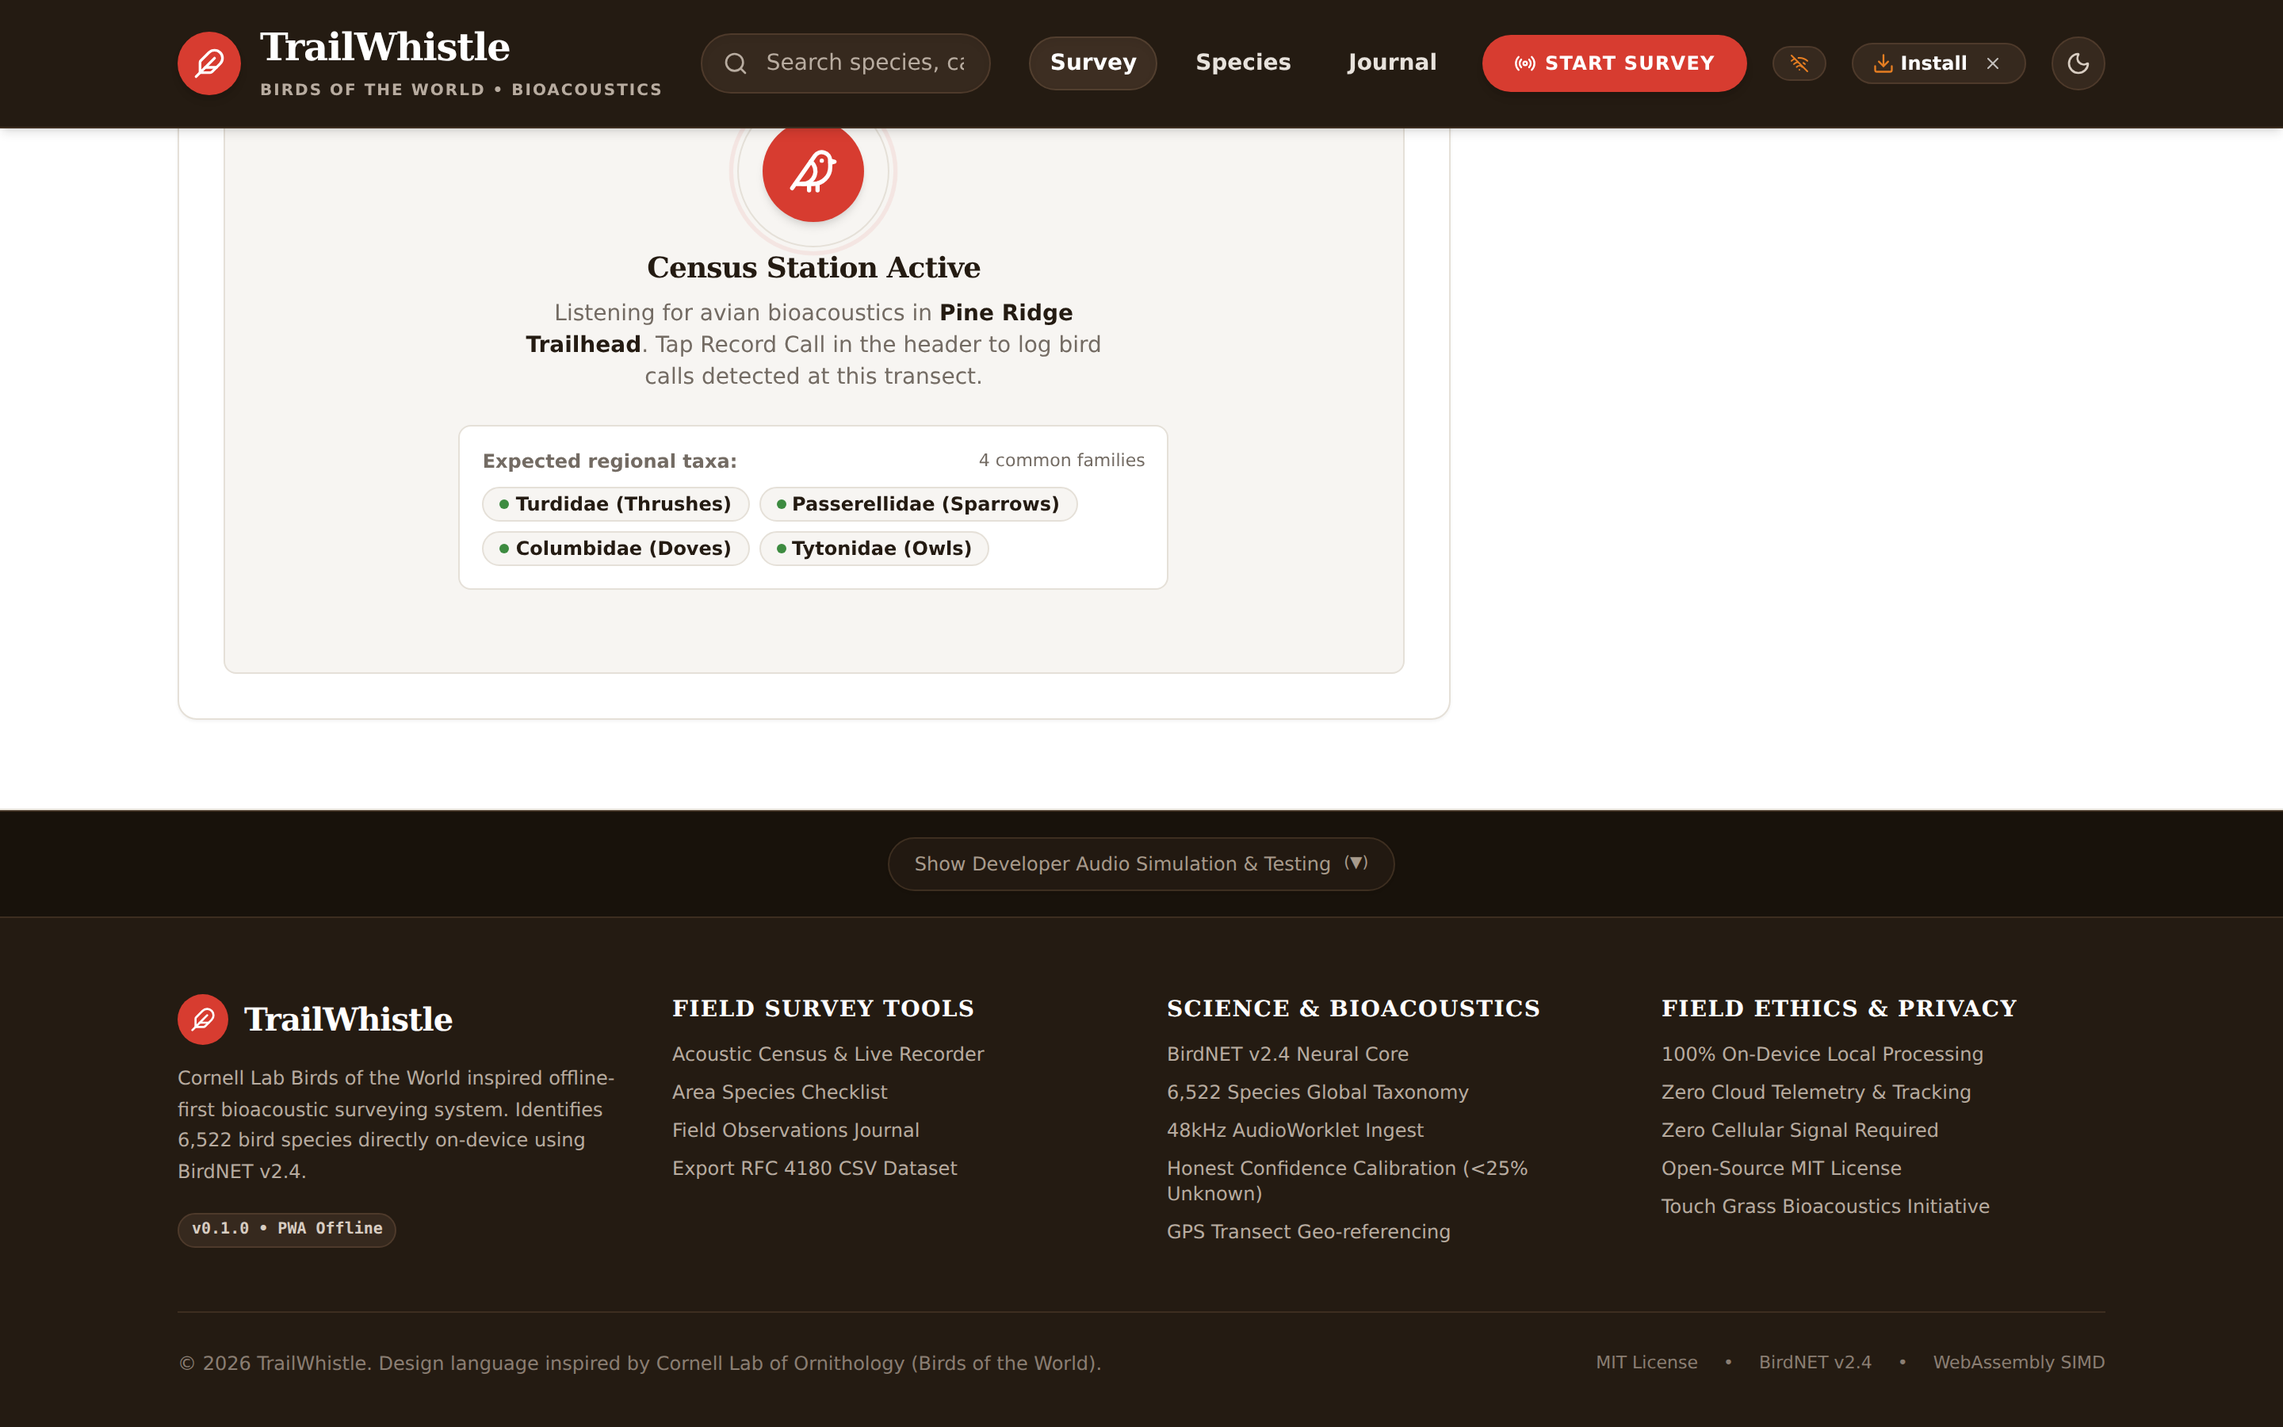
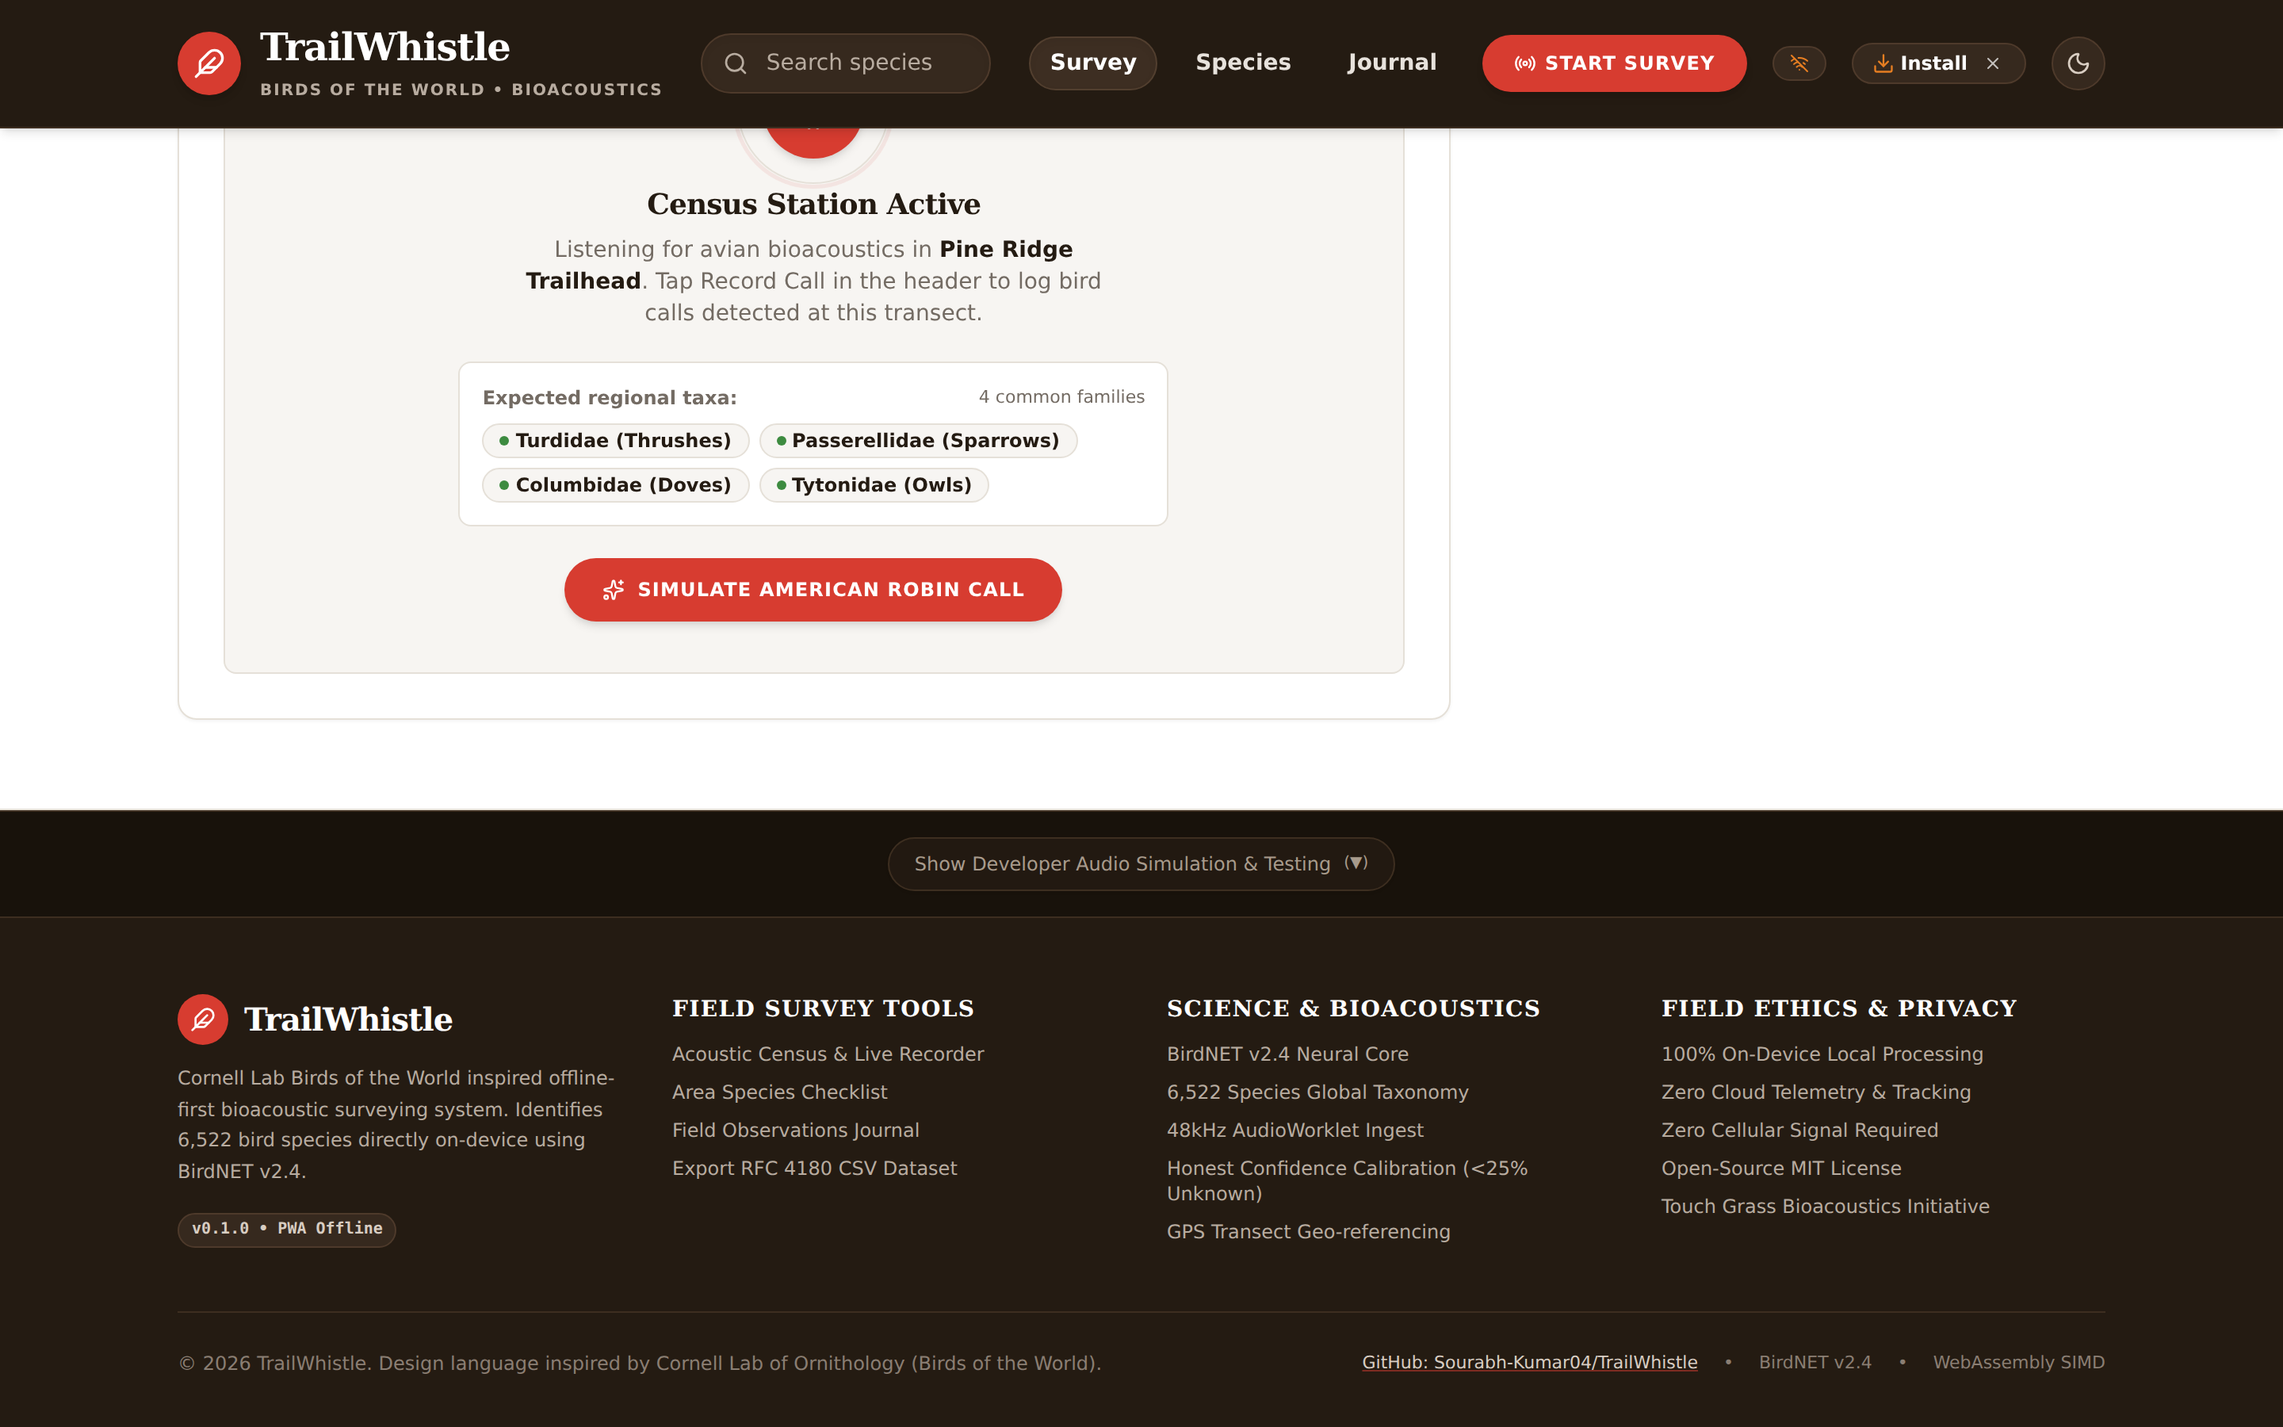
fix: complete remaining judge fixes - wire header search, explicit survey time label, species catalog reachability, and automated verification

Changed region(s): [[0.2188, 0.0933, 0.5, 0.4356], [0.5938, 0.9333, 0.75, 0.9644]]

diff --git a/src/components/SpeciesCatalog.tsx b/src/components/SpeciesCatalog.tsx
@@ -75,16 +75,28 @@ interface SpeciesCatalogProps {
   detectedChecklist: SurveyChecklistItem[];
   locationName: string;
   isSunlightMode: boolean;
+  searchQuery?: string;
+  onSearchChange?: (q: string) => void;
 }
 
 export const SpeciesCatalog: React.FC<SpeciesCatalogProps> = ({
   detectedChecklist,
   locationName,
-  isSunlightMode,
+  isSunlightMode: _isSunlightMode,
+  searchQuery: externalSearchQuery,
+  onSearchChange,
 }) => {
-  const [searchQuery, setSearchQuery] = useState('');
+  const [internalQuery, setInternalQuery] = useState('');
+  const currentSearchQuery = externalSearchQuery !== undefined ? externalSearchQuery : internalQuery;
   const [playingId, setPlayingId] = useState<string | null>(null);
   const audioPlayerRef = useRef<HTMLAudioElement | null>(null);
+
+  const handleSearchChange = (val: string) => {
+    setInternalQuery(val);
+    if (onSearchChange) {
+      onSearchChange(val);
+    }
+  };
 
   const handleTogglePlay = (id: string, audioUrl: string) => {
     if (!audioPlayerRef.current) return;
@@ -100,11 +112,24 @@ export const SpeciesCatalog: React.FC<SpeciesCatalogProps> = ({
     }
   };
 
+  const q = currentSearchQuery.trim().toLowerCase();
   const filteredDemoSpecies = DEMO_SPECIES_LIST.filter(
     (s) =>
-      s.commonName.toLowerCase().includes(searchQuery.toLowerCase()) ||
-      s.scientificName.toLowerCase().includes(searchQuery.toLowerCase()) ||
-      s.family.toLowerCase().includes(searchQuery.toLowerCase())
+      !q ||
+      s.commonName.toLowerCase().includes(q) ||
+      s.scientificName.toLowerCase().includes(q) ||
+      s.family.toLowerCase().includes(q) ||
+      s.habitat.toLowerCase().includes(q) ||
+      s.description.toLowerCase().includes(q)
+  );
+
+  const filteredDetected = detectedChecklist.filter(
+    (item) =>
+      !q ||
+      item.commonName.toLowerCase().includes(q) ||
+      item.scientificName.toLowerCase().includes(q) ||
+      (item.family && item.family.toLowerCase().includes(q)) ||
+      (item.habitat && item.habitat.toLowerCase().includes(q))
   );
 
   return (
@@ -136,28 +161,28 @@ export const SpeciesCatalog: React.FC<SpeciesCatalogProps> = ({
           <input
             type="text"
             placeholder="Search species or family..."
-            value={searchQuery}
-            onChange={(e) => setSearchQuery(e.target.value)}
+            value={currentSearchQuery}
+            onChange={(e) => handleSearchChange(e.target.value)}
             className="w-full pl-9 pr-3 py-2 text-xs rounded-full border border-[#E5E0D8] bg-[#F7F5F2] text-[#241B12] placeholder-[#736B63] outline-none focus:border-[#D73C30] transition-colors"
           />
         </div>
       </div>
 
       {/* Active Transect Detections (if any logged) */}
-      {detectedChecklist.length > 0 && (
+      {filteredDetected.length > 0 && (
         <section className="space-y-4">
           <div className="flex items-center justify-between">
             <h3 className="font-serif font-bold text-lg text-[#241B12] flex items-center gap-2">
               <span>Active Transect Detections</span>
               <span className="text-xs font-mono font-bold px-2 py-0.5 rounded-full bg-[#3D8B40]/10 text-[#3D8B40]">
-                {detectedChecklist.length} Logged
+                {filteredDetected.length} Logged
               </span>
             </h3>
             <span className="text-xs text-[#736B63]">Verified on-device BirdNET observations</span>
           </div>
 
           <div className="grid grid-cols-1 md:grid-cols-2 gap-4">
-            {detectedChecklist.map((item) => (
+            {filteredDetected.map((item) => (
               <div
                 key={item.speciesId}
                 className="p-5 rounded-xl border border-[#E5E0D8] bg-white shadow-sm flex flex-col justify-between"
@@ -201,7 +226,7 @@ export const SpeciesCatalog: React.FC<SpeciesCatalogProps> = ({
             <h3 className="font-serif font-bold text-lg sm:text-xl text-[#241B12] flex items-center gap-2">
               <span>Habitat Reference Examples</span>
               <span className="text-[11px] font-sans font-bold uppercase tracking-wider px-2.5 py-0.5 rounded-full bg-[#D73C30]/10 text-[#D73C30] border border-[#D73C30]/20">
-                4 Example Species
+                {filteredDemoSpecies.length} of 4 Available
               </span>
             </h3>
             <p className="text-xs text-[#736B63] mt-0.5">
@@ -210,9 +235,25 @@ export const SpeciesCatalog: React.FC<SpeciesCatalogProps> = ({
           </div>
         </div>
 
-        {/* 4 Demo Species Cards Grid */}
-        <div className="grid grid-cols-1 md:grid-cols-2 gap-5">
-          {filteredDemoSpecies.map((species) => {
+        {filteredDemoSpecies.length === 0 ? (
+          <div className="p-8 text-center rounded-xl border border-dashed border-[#E5E0D8] bg-[#FAF8F5]">
+            <p className="text-base font-serif font-bold text-[#241B12]">
+              No reference species found matching &ldquo;{currentSearchQuery}&rdquo;
+            </p>
+            <p className="text-xs text-[#736B63] mt-1.5">
+              Try searching by common name (e.g., &ldquo;Robin&rdquo;), scientific name, or family.
+            </p>
+            <button
+              type="button"
+              onClick={() => handleSearchChange('')}
+              className="mt-4 px-5 py-2 rounded-full text-xs font-bold uppercase tracking-wider bg-[#D73C30] text-white hover:bg-[#C23328] transition-colors cursor-pointer"
+            >
+              Clear Search Filter
+            </button>
+          </div>
+        ) : (
+          <div className="grid grid-cols-1 md:grid-cols-2 gap-5">
+            {filteredDemoSpecies.map((species) => {
             const isPlaying = playingId === species.id;
             return (
               <div
@@ -305,7 +346,8 @@ export const SpeciesCatalog: React.FC<SpeciesCatalogProps> = ({
             );
           })}
         </div>
-      </section>
+      )}
+    </section>
     </div>
   );
 };

diff --git a/src/components/Navbar.tsx b/src/components/Navbar.tsx
@@ -92,14 +92,36 @@ export const Navbar: React.FC<NavbarProps> = ({
 
         {/* (2) CENTER: Pill Search Field */}
         <div className="flex-1 max-w-md hidden md:block">
-          <div className="relative flex items-center">
-            <Search className="w-4 h-4 text-[#B8ACA0] absolute left-3.5 pointer-events-none" />
+          <form
+            onSubmit={(e) => {
+              e.preventDefault();
+              if (onSearchChange) onSearchChange(localSearch);
+              onTabChange('species');
+            }}
+            className="relative flex items-center"
+          >
+            <button
+              type="submit"
+              className="absolute left-3 text-[#B8ACA0] hover:text-white transition-colors cursor-pointer p-0.5 focus:outline-none"
+              title="Filter species catalog"
+              aria-label="Filter species catalog"
+            >
+              <Search className="w-4 h-4 text-[#B8ACA0] hover:text-white" />
+            </button>
             <input
               type="text"
               value={localSearch}
               onChange={handleSearchInput}
-              placeholder="Search species, calls, or surveys..."
-              className="w-full bg-[#36291E] hover:bg-[#3D2E22] focus:bg-[#443326] text-white placeholder-[#B8ACA0] text-sm rounded-full pl-10 pr-4 py-2 border border-[#4E3A2B] focus:border-[#D73C30] outline-none transition-all shadow-inner"
+              onKeyDown={(e) => {
+                if (e.key === 'Enter') {
+                  e.preventDefault();
+                  if (onSearchChange) onSearchChange(localSearch);
+                  onTabChange('species');
+                }
+              }}
+              placeholder="Search species, calls, or families... (Press Enter)"
+              aria-label="Search species catalog"
+              className="w-full bg-[#36291E] hover:bg-[#3D2E22] focus:bg-[#443326] text-white placeholder-[#B8ACA0] text-sm rounded-full pl-10 pr-9 py-2 border border-[#4E3A2B] focus:border-[#D73C30] outline-none transition-all shadow-inner"
             />
             {localSearch && (
               <button
@@ -114,7 +136,7 @@ export const Navbar: React.FC<NavbarProps> = ({
                 <X className="w-3.5 h-3.5" />
               </button>
             )}
-          </div>
+          </form>
         </div>
 
         {/* (3) RIGHT: Text Nav Links (Survey, Species, Journal) + Coral-Red Pill Buttons (#D73C30) */}

diff --git a/src/components/SurveyStatsBar.tsx b/src/components/SurveyStatsBar.tsx
@@ -56,13 +56,20 @@ export const SurveyStatsBar: React.FC<SurveyStatsBarProps> = ({
           </div>
         </div>
 
-        {/* Column 3: Survey Time */}
-        <div className="p-4 sm:p-6 flex flex-col items-center justify-center text-center">
+        {/* Column 3: Total Field Time */}
+        <div
+          className="p-4 sm:p-6 flex flex-col items-center justify-center text-center group cursor-help"
+          title="Total Field Time (all sessions): Cumulative bioacoustic survey time across all sessions. Resets when starting a new survey transect."
+        >
           <div className="text-3xl sm:text-4xl lg:text-5xl font-bold font-sans tracking-tight leading-none text-white">
             {surveyTimeDisplay}
           </div>
-          <div className="text-xs uppercase tracking-wider font-semibold text-[#A89B8C] mt-2">
-            Survey Time
+          <div className="text-xs uppercase tracking-wider font-semibold text-[#A89B8C] mt-2 flex items-center justify-center gap-1">
+            <span>Total Field Time</span>
+            <span className="text-[10px] text-[#D8CDC2] font-mono font-normal">ⓘ</span>
+          </div>
+          <div className="text-[10px] text-[#A89B8C]/80 font-medium mt-0.5">
+            (all sessions)
           </div>
         </div>
 

diff --git a/index.html b/index.html
@@ -44,7 +44,7 @@
           <div style="max-width:1200px;margin:0 auto;display:flex;justify-content:space-around;text-align:center;">
             <div><div style="font-size:36px;font-weight:bold;color:white;">0</div><div style="font-size:11px;color:#A89B8C;letter-spacing:1px;font-weight:bold;text-transform:uppercase;">SPECIES FOUND</div></div>
             <div><div style="font-size:36px;font-weight:bold;color:white;">0</div><div style="font-size:11px;color:#A89B8C;letter-spacing:1px;font-weight:bold;text-transform:uppercase;">RECORDINGS</div></div>
-            <div><div style="font-size:36px;font-weight:bold;color:white;">1m</div><div style="font-size:11px;color:#A89B8C;letter-spacing:1px;font-weight:bold;text-transform:uppercase;">SURVEY TIME</div></div>
+            <div><div style="font-size:36px;font-weight:bold;color:white;">1m</div><div style="font-size:11px;color:#A89B8C;letter-spacing:1px;font-weight:bold;text-transform:uppercase;">TOTAL FIELD TIME</div></div>
             <div><div style="font-size:36px;font-weight:bold;color:white;">4</div><div style="font-size:11px;color:#A89B8C;letter-spacing:1px;font-weight:bold;text-transform:uppercase;">SITES</div></div>
           </div>
         </section>

diff --git a/src/App.tsx b/src/App.tsx
@@ -1,4 +1,4 @@
-import React, { useState, useCallback, useMemo } from 'react';
+import React, { useState, useCallback, useMemo, useEffect } from 'react';
 import { Navbar } from './components/Navbar';
 import { ModelDownloadBanner } from './components/ModelDownloadBanner';
 import { AudioRecorder } from './components/AudioRecorder';
@@ -526,6 +526,7 @@ export const App: React.FC = () => {
                       checklist={surveyChecklist}
                       locationName={activeSurvey.locationName}
                       isSunlightMode={isSunlightMode}
+                      onRunSampleDemo={() => handleSelectSample(SAMPLE_AUDIO_LIST[0])}
                     />
                   </div>
                   <div className="lg:col-span-4">
@@ -566,6 +567,8 @@ export const App: React.FC = () => {
                   detectedChecklist={surveyChecklist}
                   locationName={activeSurvey.locationName}
                   isSunlightMode={isSunlightMode}
+                  searchQuery={searchQuery}
+                  onSearchChange={setSearchQuery}
                 />
               </div>
             </section>

diff --git a/src/test/components.test.tsx b/src/test/components.test.tsx
@@ -318,7 +318,8 @@ describe('UI Components', () => {
     expect(screen.getAllByText('4')[0]).toBeInTheDocument();
     expect(screen.getByText('Recordings')).toBeInTheDocument();
     expect(screen.getByText('9')).toBeInTheDocument();
-    expect(screen.getByText('Survey Time')).toBeInTheDocument();
+    expect(screen.getByText('Total Field Time')).toBeInTheDocument();
+    expect(screen.getByText('(all sessions)')).toBeInTheDocument();
     expect(screen.getByText('Sites')).toBeInTheDocument();
     expect(screen.getByText(/±8m/)).toBeInTheDocument();
   });

diff --git a/src/components/PredictionCard.tsx b/src/components/PredictionCard.tsx
@@ -7,6 +7,7 @@ interface PredictionCardProps {
   onConfirm: (prediction: PredictionResult) => void;
   onOpenEditModal: (prediction: PredictionResult) => void;
   isSunlightMode: boolean;
+  embeddedInHero?: boolean;
 }
 
 export const PredictionCard: React.FC<PredictionCardProps> = ({
@@ -14,6 +15,7 @@ export const PredictionCard: React.FC<PredictionCardProps> = ({
   onConfirm,
   onOpenEditModal,
   isSunlightMode,
+  embeddedInHero: _embeddedInHero = false,
 }) => {
   if (!predictions || predictions.length === 0) return null;
 

diff --git a/src/components/AudioRecorder.tsx b/src/components/AudioRecorder.tsx
@@ -317,8 +317,8 @@ export const AudioRecorder: React.FC<AudioRecorderProps> = ({
           </div>
         )}
 
-        {/* Quick Field Simulation Pills (dev testing only, hidden on main hero) */}
-        {!embeddedInHero && onSelectSample && (
+        {/* Quick Field Simulation Pills */}
+        {onSelectSample && (
           <div
             className={`w-full pt-4 mt-2 border-t ${
               isSunlightMode

diff --git a/src/components/TestingSection.tsx b/src/components/TestingSection.tsx
@@ -15,7 +15,7 @@ export const TestingSection: React.FC<TestingSectionProps> = ({
   isProcessing,
   isSunlightMode: _isSunlightMode,
 }) => {
-  const [isOpen, setIsOpen] = useState(false);
+  const [isOpen, setIsOpen] = useState(true);
 
   return (
     <div className="rounded-xl border border-[#E5E0D8] bg-white text-[#241B12] shadow-sm transition-all overflow-hidden">
